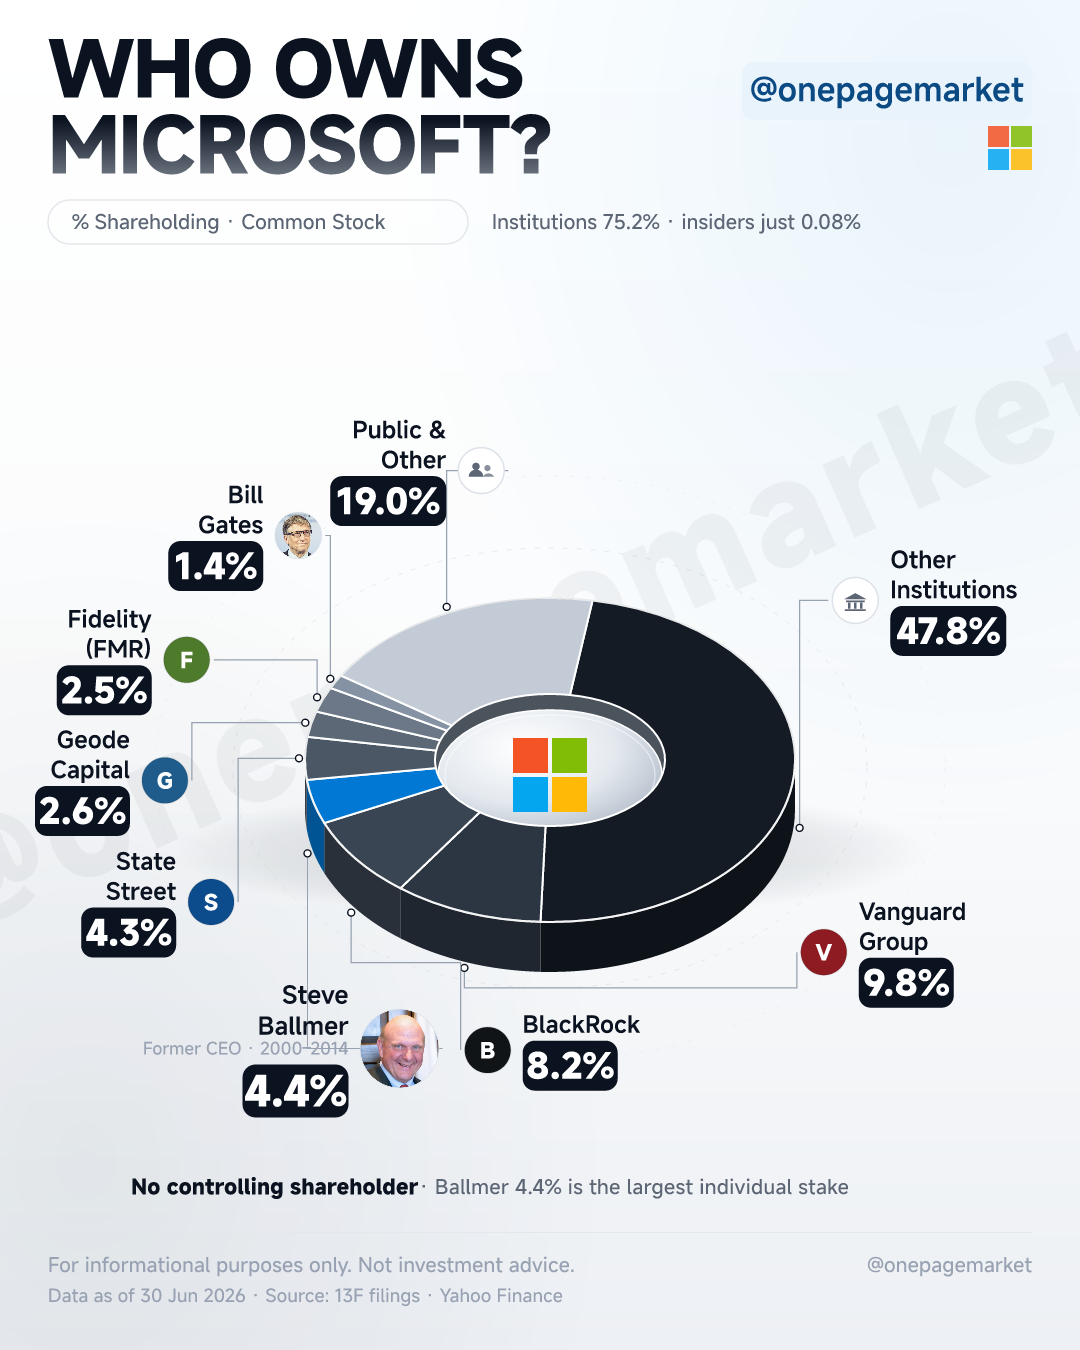
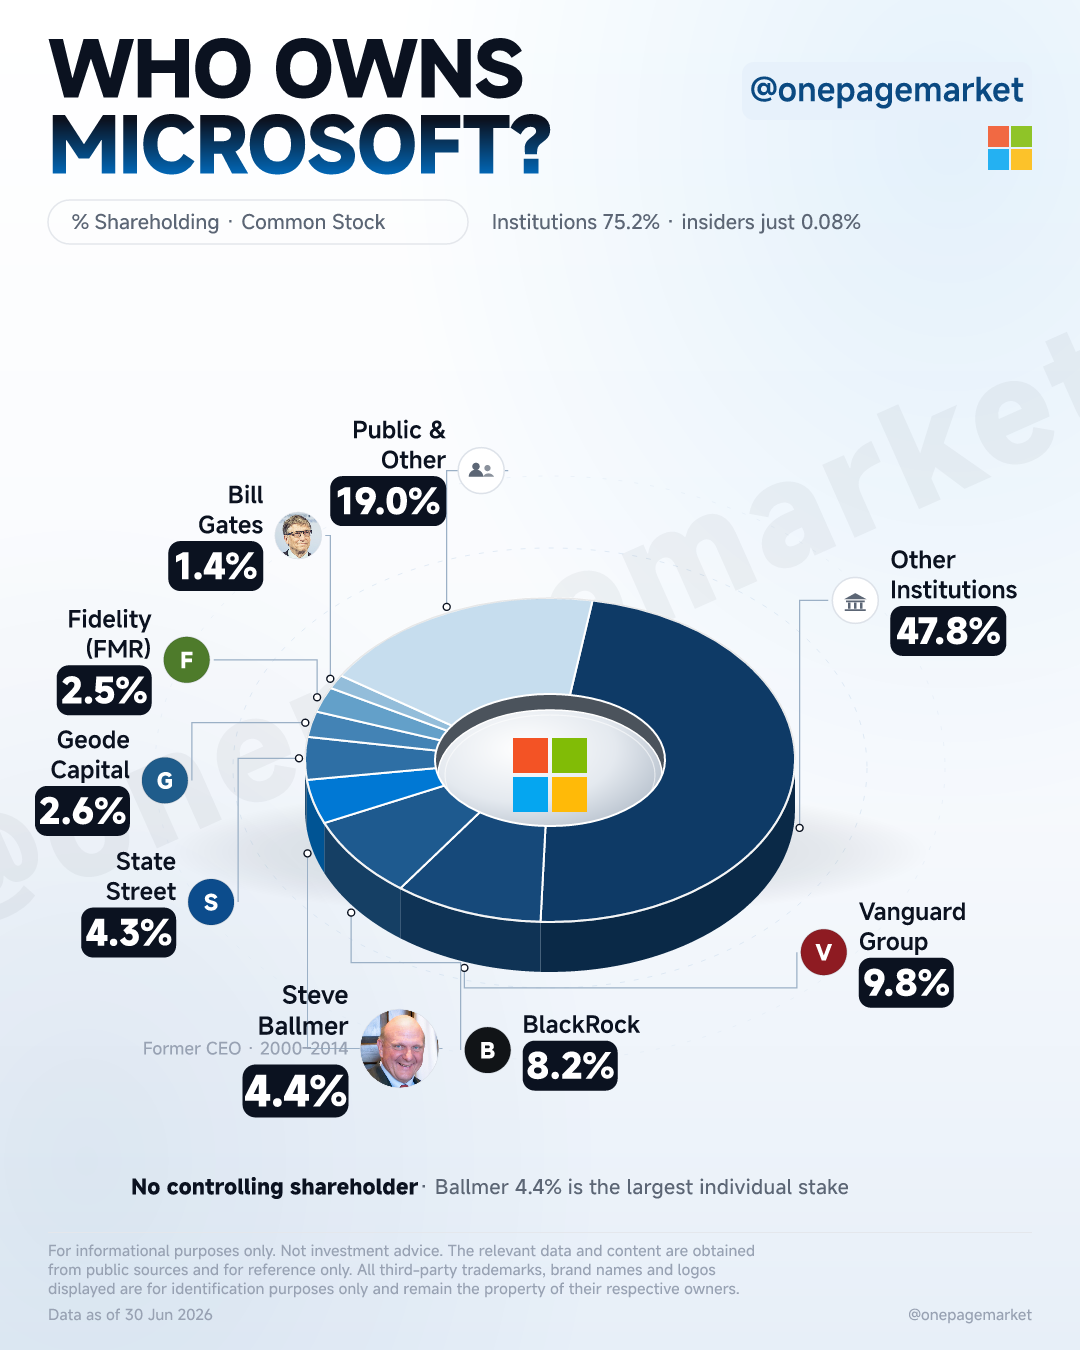
Who Owns Microsoft: 环改为微软蓝色阶
- data/ownership-msft.json 移除每段 color（颜色只留一个来源，MEMORY 坑 17）
- build_ownership_msft.js 新增 RAMP 蓝色阶（深海军蓝→浅雾蓝）+ HERO_BLUE #0078D4 钉给 Ballmer
- palette 同步转蓝（背景/光晕/轨道线/标题问号），中心圆盘保持银灰金属（坑 21：与蓝环异色系才读得出凸起）

diff --git a/docs/index.html b/docs/index.html
@@ -76,7 +76,7 @@
 <div class="sub">預計下一張圖：On Deck · 今天 20:30（北京時間）</div></div><button class="rf" id="rf" type="button" aria-label="重新整理"><svg viewBox="0 0 24 24" fill="none" stroke="currentColor" stroke-width="2" stroke-linecap="round" stroke-linejoin="round"><path d="M21 12a9 9 0 1 1-2.64-6.36"/><path d="M21 3v6h-6"/></svg></button></header>
 <div class="rule"></div>
 <main>
-<section class="sec"><div class="ghead"><b>Who Owns Microsoft?</b><span class="day">Fri, Oct 23 · 1 張</span></div><div class="tweet"><button class="copy" data-t="Who owns Microsoft? Institutions hold 75.2% — Vanguard 9.8%, BlackRock 8.2%, State Street 4.3%. Ballmer is the largest individual shareholder at 4.4%; Gates is down to 1.4% after his foundation exited in early 2026. 🧵">複製文案</button><p>Who owns Microsoft? Institutions hold 75.2% — Vanguard 9.8%, BlackRock 8.2%, State Street 4.3%. Ballmer is the largest individual shareholder at 4.4%; Gates is down to 1.4% after his foundation exited in early 2026. 🧵</p><span class="len">217 字</span></div><div class="shots"><div class="shot"><a class="link" href="img/who-owns-msft-20261023.png" target="_blank"><img src="img/who-owns-msft-20261023.png" loading="lazy" alt="who-owns-msft-20261023.png"></a><span class="ts">2026-10-23 13:47:51</span></div></div></section><section class="sec"><div class="ghead"><b>Who Owns Apple?</b><span class="day">Fri, Oct 23 · 1 張</span></div><div class="tweet"><button class="copy" data-t="Who owns Apple? Institutions hold 65.7% — Vanguard 9.4%, BlackRock 8.0%, State Street 4.2%. Insiders hold just 0.06% — no controlling shareholder. Buffett's Berkshire: 1.6%. 🧵">複製文案</button><p>Who owns Apple? Institutions hold 65.7% — Vanguard 9.4%, BlackRock 8.0%, State Street 4.2%. Insiders hold just 0.06% — no controlling shareholder. Buffett's Berkshire: 1.6%. 🧵</p><span class="len">175 字</span></div><div class="shots"><div class="shot"><a class="link" href="img/who-owns-aapl-20261023.png" target="_blank"><img src="img/who-owns-aapl-20261023.png" loading="lazy" alt="who-owns-aapl-20261023.png"></a><span class="ts">2026-10-23 12:47:16</span></div></div></section><section class="sec"><div class="ghead"><b>The Close</b><span class="day">Thu, Oct 22 · 1 張</span></div><div class="tweet"><button class="copy" data-t="The Close: S&amp;P 500 -1.21% · Nasdaq -2.60% · Russell 2000 +0.11%. Most traded: SPCX -9.14%, MU -6.26%, NVDA -4.40%. Top 20 by turnover inside. 🧵">複製文案</button><p>The Close: S&amp;P 500 -1.21% · Nasdaq -2.60% · Russell 2000 +0.11%. Most traded: SPCX -9.14%, MU -6.26%, NVDA -4.40%. Top 20 by turnover inside. 🧵</p><span class="len">143 字</span></div><div class="shots"><div class="shot"><a class="link" href="img/the-close-20261022.png" target="_blank"><img src="img/the-close-20261022.png" loading="lazy" alt="the-close-20261022.png"></a><span class="ts">2026-10-23 14:25:56</span></div></div></section><section class="sec"><div class="ghead"><b>On Deck</b><span class="day">Thu, Oct 22 · 1 張</span></div><div class="tweet"><button class="copy" data-t="On Deck for today: Crude Oil Inventories; EIA Weekly Distillates Stocks; Gasoline Inventories. 137 companies report — PG, UNP, LMT before the open, WDC, NEM, BE after the close. 🧵">複製文案</button><p>On Deck for today: Crude Oil Inventories; EIA Weekly Distillates Stocks; Gasoline Inventories. 137 companies report — PG, UNP, LMT before the open, WDC, NEM, BE after the close. 🧵</p><span class="len">179 字</span></div><div class="shots"><div class="shot"><a class="link" href="img/on-deck-20261022.png" target="_blank"><img src="img/on-deck-20261022.png" loading="lazy" alt="on-deck-20261022.png"></a><span class="ts">2026-10-22 21:19:31</span></div></div></section><section class="sec"><div class="ghead"><b>Who Owns Meta?</b><span class="day">Thu, Oct 22 · 1 張</span></div><div class="tweet"><button class="copy" data-t="Who owns Meta? Zuckerberg 13.4% — but ~61% of the vote via Class B. Institutions hold 67.8%: Vanguard 7.6%, BlackRock 6.8%, Capital Group 4.0%. These 7 managers hold 29.1% between them. 🧵">複製文案</button><p>Who owns Meta? Zuckerberg 13.4% — but ~61% of the vote via Class B. Institutions hold 67.8%: Vanguard 7.6%, BlackRock 6.8%, Capital Group 4.0%. These 7 managers hold 29.1% between them. 🧵</p><span class="len">187 字</span></div><div class="shots"><div class="shot"><a class="link" href="img/who-owns-meta-20261022.png" target="_blank"><img src="img/who-owns-meta-20261022.png" loading="lazy" alt="who-owns-meta-20261022.png"></a><span class="ts">2026-10-22 16:41:40</span></div></div></section><section class="sec"><div class="ghead"><b>Who Owns SpaceX?</b><span class="day">Thu, Oct 22 · 1 張</span></div><div class="tweet"><button class="copy" data-t="Who owns SpaceX? Musk 44.7% — and ~82% of the votes via Class B. Institutions hold 30.0% — top: Alphabet 4.1%, Valor Equity 3.4%, Founders Fund 3.2%, Fidelity 2.2%. Everyone else: 36.0%. 🧵">複製文案</button><p>Who owns SpaceX? Musk 44.7% — and ~82% of the votes via Class B. Institutions hold 30.0% — top: Alphabet 4.1%, Valor Equity 3.4%, Founders Fund 3.2%, Fidelity 2.2%. Everyone else: 36.0%. 🧵</p><span class="len">188 字</span></div><div class="shots"><div class="shot"><a class="link" href="img/who-owns-spcx-20261022.png" target="_blank"><img src="img/who-owns-spcx-20261022.png" loading="lazy" alt="who-owns-spcx-20261022.png"></a><span class="ts">2026-10-22 16:41:39</span></div></div></section><section class="sec"><div class="ghead"><b>The Close</b><span class="day">Wed, Oct 21 · 1 張</span></div><div class="tweet"><button class="copy" data-t="The Close: S&amp;P 500 +0.58% · Nasdaq +1.05% · Russell 2000 +0.27%. Most traded: MU, SPCX, NVDA. Breadth 80% advancers. 🧵">複製文案</button><p>The Close: S&amp;P 500 +0.58% · Nasdaq +1.05% · Russell 2000 +0.27%. Most traded: MU, SPCX, NVDA. Breadth 80% advancers. 🧵</p><span class="len">118 字</span></div><div class="shots"><div class="shot"><a class="link" href="img/the-close-20261021.png" target="_blank"><img src="img/the-close-20261021.png" loading="lazy" alt="the-close-20261021.png"></a><span class="ts">2026-10-22 04:38:14</span></div></div></section><section class="sec"><div class="ghead"><b>Who Owns NVDA?</b><span class="day">Wed, Oct 21 · 1 張</span></div><div class="tweet"><button class="copy" data-t="Who owns NVIDIA? Institutions hold 71.4% — top: Vanguard 9.6%, BlackRock 8.1%, Fidelity 4.3%, State Street 4.2%. Insiders (incl. Jensen Huang) 4.0%. Everyone else: 59.4%. 🧵">複製文案</button><p>Who owns NVIDIA? Institutions hold 71.4% — top: Vanguard 9.6%, BlackRock 8.1%, Fidelity 4.3%, State Street 4.2%. Insiders (incl. Jensen Huang) 4.0%. Everyone else: 59.4%. 🧵</p><span class="len">172 字</span></div><div class="shots"><div class="shot"><a class="link" href="img/who-owns-nvda-20261021.png" target="_blank"><img src="img/who-owns-nvda-20261021.png" loading="lazy" alt="who-owns-nvda-20261021.png"></a><span class="ts">2026-10-21 20:25:28</span></div></div></section><section class="sec"><div class="ghead"><b>Week Ahead</b><span class="day">Wed, Oct 21 · 1 張</span></div><div class="tweet"><button class="copy" data-t="This week in US markets: Mon IMF Meetings, Tue NAHB Housing Market Index, Wed Atlanta Fed GDPNow. Key earnings: GE, NFLX, PM, META, PG, WDC. Full calendar in the card. 🧵">複製文案</button><p>This week in US markets: Mon IMF Meetings, Tue NAHB Housing Market Index, Wed Atlanta Fed GDPNow. Key earnings: GE, NFLX, PM, META, PG, WDC. Full calendar in the card. 🧵</p><span class="len">169 字</span></div><div class="shots"><div class="shot"><a class="link" href="img/week-ahead-20261021.png" target="_blank"><img src="img/week-ahead-20261021.png" loading="lazy" alt="week-ahead-20261021.png"></a><span class="ts">2026-10-21 13:55:01</span></div></div></section><section class="sec"><div class="ghead"><b>On Deck</b><span class="day">Wed, Oct 21 · 1 張</span></div><div class="tweet"><button class="copy" data-t="On Deck for today: Atlanta Fed GDPNow; Housing Starts; Building Permits. 91 companies report — PM, TMO, ABT before the open, META, TSLA, LRCX after the close. 🧵">複製文案</button><p>On Deck for today: Atlanta Fed GDPNow; Housing Starts; Building Permits. 91 companies report — PM, TMO, ABT before the open, META, TSLA, LRCX after the close. 🧵</p><span class="len">160 字</span></div><div class="shots"><div class="shot"><a class="link" href="img/on-deck-20261021.png" target="_blank"><img src="img/on-deck-20261021.png" loading="lazy" alt="on-deck-20261021.png"></a><span class="ts">2026-10-21 13:32:26</span></div></div></section>
+<section class="sec"><div class="ghead"><b>Who Owns Microsoft?</b><span class="day">Fri, Oct 23 · 1 張</span></div><div class="tweet"><button class="copy" data-t="Who owns Microsoft? Institutions hold 75.2% — Vanguard 9.8%, BlackRock 8.2%, State Street 4.3%. Ballmer is the largest individual shareholder at 4.4%; Gates is down to 1.4% after his foundation exited in early 2026. 🧵">複製文案</button><p>Who owns Microsoft? Institutions hold 75.2% — Vanguard 9.8%, BlackRock 8.2%, State Street 4.3%. Ballmer is the largest individual shareholder at 4.4%; Gates is down to 1.4% after his foundation exited in early 2026. 🧵</p><span class="len">217 字</span></div><div class="shots"><div class="shot"><a class="link" href="img/who-owns-msft-20261023.png" target="_blank"><img src="img/who-owns-msft-20261023.png" loading="lazy" alt="who-owns-msft-20261023.png"></a><span class="ts">2026-10-23 13:48:58</span></div></div></section><section class="sec"><div class="ghead"><b>Who Owns Apple?</b><span class="day">Fri, Oct 23 · 1 張</span></div><div class="tweet"><button class="copy" data-t="Who owns Apple? Institutions hold 65.7% — Vanguard 9.4%, BlackRock 8.0%, State Street 4.2%. Insiders hold just 0.06% — no controlling shareholder. Buffett's Berkshire: 1.6%. 🧵">複製文案</button><p>Who owns Apple? Institutions hold 65.7% — Vanguard 9.4%, BlackRock 8.0%, State Street 4.2%. Insiders hold just 0.06% — no controlling shareholder. Buffett's Berkshire: 1.6%. 🧵</p><span class="len">175 字</span></div><div class="shots"><div class="shot"><a class="link" href="img/who-owns-aapl-20261023.png" target="_blank"><img src="img/who-owns-aapl-20261023.png" loading="lazy" alt="who-owns-aapl-20261023.png"></a><span class="ts">2026-10-23 12:47:16</span></div></div></section><section class="sec"><div class="ghead"><b>The Close</b><span class="day">Thu, Oct 22 · 1 張</span></div><div class="tweet"><button class="copy" data-t="The Close: S&amp;P 500 -1.21% · Nasdaq -2.60% · Russell 2000 +0.11%. Most traded: SPCX -9.14%, MU -6.26%, NVDA -4.40%. Top 20 by turnover inside. 🧵">複製文案</button><p>The Close: S&amp;P 500 -1.21% · Nasdaq -2.60% · Russell 2000 +0.11%. Most traded: SPCX -9.14%, MU -6.26%, NVDA -4.40%. Top 20 by turnover inside. 🧵</p><span class="len">143 字</span></div><div class="shots"><div class="shot"><a class="link" href="img/the-close-20261022.png" target="_blank"><img src="img/the-close-20261022.png" loading="lazy" alt="the-close-20261022.png"></a><span class="ts">2026-10-23 14:25:56</span></div></div></section><section class="sec"><div class="ghead"><b>On Deck</b><span class="day">Thu, Oct 22 · 1 張</span></div><div class="tweet"><button class="copy" data-t="On Deck for today: Crude Oil Inventories; EIA Weekly Distillates Stocks; Gasoline Inventories. 137 companies report — PG, UNP, LMT before the open, WDC, NEM, BE after the close. 🧵">複製文案</button><p>On Deck for today: Crude Oil Inventories; EIA Weekly Distillates Stocks; Gasoline Inventories. 137 companies report — PG, UNP, LMT before the open, WDC, NEM, BE after the close. 🧵</p><span class="len">179 字</span></div><div class="shots"><div class="shot"><a class="link" href="img/on-deck-20261022.png" target="_blank"><img src="img/on-deck-20261022.png" loading="lazy" alt="on-deck-20261022.png"></a><span class="ts">2026-10-22 21:19:31</span></div></div></section><section class="sec"><div class="ghead"><b>Who Owns Meta?</b><span class="day">Thu, Oct 22 · 1 張</span></div><div class="tweet"><button class="copy" data-t="Who owns Meta? Zuckerberg 13.4% — but ~61% of the vote via Class B. Institutions hold 67.8%: Vanguard 7.6%, BlackRock 6.8%, Capital Group 4.0%. These 7 managers hold 29.1% between them. 🧵">複製文案</button><p>Who owns Meta? Zuckerberg 13.4% — but ~61% of the vote via Class B. Institutions hold 67.8%: Vanguard 7.6%, BlackRock 6.8%, Capital Group 4.0%. These 7 managers hold 29.1% between them. 🧵</p><span class="len">187 字</span></div><div class="shots"><div class="shot"><a class="link" href="img/who-owns-meta-20261022.png" target="_blank"><img src="img/who-owns-meta-20261022.png" loading="lazy" alt="who-owns-meta-20261022.png"></a><span class="ts">2026-10-22 16:41:40</span></div></div></section><section class="sec"><div class="ghead"><b>Who Owns SpaceX?</b><span class="day">Thu, Oct 22 · 1 張</span></div><div class="tweet"><button class="copy" data-t="Who owns SpaceX? Musk 44.7% — and ~82% of the votes via Class B. Institutions hold 30.0% — top: Alphabet 4.1%, Valor Equity 3.4%, Founders Fund 3.2%, Fidelity 2.2%. Everyone else: 36.0%. 🧵">複製文案</button><p>Who owns SpaceX? Musk 44.7% — and ~82% of the votes via Class B. Institutions hold 30.0% — top: Alphabet 4.1%, Valor Equity 3.4%, Founders Fund 3.2%, Fidelity 2.2%. Everyone else: 36.0%. 🧵</p><span class="len">188 字</span></div><div class="shots"><div class="shot"><a class="link" href="img/who-owns-spcx-20261022.png" target="_blank"><img src="img/who-owns-spcx-20261022.png" loading="lazy" alt="who-owns-spcx-20261022.png"></a><span class="ts">2026-10-22 16:41:39</span></div></div></section><section class="sec"><div class="ghead"><b>The Close</b><span class="day">Wed, Oct 21 · 1 張</span></div><div class="tweet"><button class="copy" data-t="The Close: S&amp;P 500 +0.58% · Nasdaq +1.05% · Russell 2000 +0.27%. Most traded: MU, SPCX, NVDA. Breadth 80% advancers. 🧵">複製文案</button><p>The Close: S&amp;P 500 +0.58% · Nasdaq +1.05% · Russell 2000 +0.27%. Most traded: MU, SPCX, NVDA. Breadth 80% advancers. 🧵</p><span class="len">118 字</span></div><div class="shots"><div class="shot"><a class="link" href="img/the-close-20261021.png" target="_blank"><img src="img/the-close-20261021.png" loading="lazy" alt="the-close-20261021.png"></a><span class="ts">2026-10-22 04:38:14</span></div></div></section><section class="sec"><div class="ghead"><b>Who Owns NVDA?</b><span class="day">Wed, Oct 21 · 1 張</span></div><div class="tweet"><button class="copy" data-t="Who owns NVIDIA? Institutions hold 71.4% — top: Vanguard 9.6%, BlackRock 8.1%, Fidelity 4.3%, State Street 4.2%. Insiders (incl. Jensen Huang) 4.0%. Everyone else: 59.4%. 🧵">複製文案</button><p>Who owns NVIDIA? Institutions hold 71.4% — top: Vanguard 9.6%, BlackRock 8.1%, Fidelity 4.3%, State Street 4.2%. Insiders (incl. Jensen Huang) 4.0%. Everyone else: 59.4%. 🧵</p><span class="len">172 字</span></div><div class="shots"><div class="shot"><a class="link" href="img/who-owns-nvda-20261021.png" target="_blank"><img src="img/who-owns-nvda-20261021.png" loading="lazy" alt="who-owns-nvda-20261021.png"></a><span class="ts">2026-10-21 20:25:28</span></div></div></section><section class="sec"><div class="ghead"><b>Week Ahead</b><span class="day">Wed, Oct 21 · 1 張</span></div><div class="tweet"><button class="copy" data-t="This week in US markets: Mon IMF Meetings, Tue NAHB Housing Market Index, Wed Atlanta Fed GDPNow. Key earnings: GE, NFLX, PM, META, PG, WDC. Full calendar in the card. 🧵">複製文案</button><p>This week in US markets: Mon IMF Meetings, Tue NAHB Housing Market Index, Wed Atlanta Fed GDPNow. Key earnings: GE, NFLX, PM, META, PG, WDC. Full calendar in the card. 🧵</p><span class="len">169 字</span></div><div class="shots"><div class="shot"><a class="link" href="img/week-ahead-20261021.png" target="_blank"><img src="img/week-ahead-20261021.png" loading="lazy" alt="week-ahead-20261021.png"></a><span class="ts">2026-10-21 13:55:01</span></div></div></section><section class="sec"><div class="ghead"><b>On Deck</b><span class="day">Wed, Oct 21 · 1 張</span></div><div class="tweet"><button class="copy" data-t="On Deck for today: Atlanta Fed GDPNow; Housing Starts; Building Permits. 91 companies report — PM, TMO, ABT before the open, META, TSLA, LRCX after the close. 🧵">複製文案</button><p>On Deck for today: Atlanta Fed GDPNow; Housing Starts; Building Permits. 91 companies report — PM, TMO, ABT before the open, META, TSLA, LRCX after the close. 🧵</p><span class="len">160 字</span></div><div class="shots"><div class="shot"><a class="link" href="img/on-deck-20261021.png" target="_blank"><img src="img/on-deck-20261021.png" loading="lazy" alt="on-deck-20261021.png"></a><span class="ts">2026-10-21 13:32:26</span></div></div></section>
 
 </main>
 <script>

diff --git a/scripts/build_ownership_msft.js b/scripts/build_ownership_msft.js
@@ -1,9 +1,13 @@
 /**
- * Who Owns Microsoft? — 3D 立體空心環股權卡（淺底 · 石墨色階 + 微軟藍強調）
+ * Who Owns Microsoft? — 3D 立體空心環股權卡（淺底 · 微軟藍色階）
  *   數據：13F Q2-2026（Yahoo Finance / StockVane / Stockrow 交叉核對）
  *         institutions 75.2% · 現任董監高 0.08% · Ballmer 4.4%（最大個人）· Gates 1.4%
  *   引擎：scripts/lib/ownership_card.js
  *   用法：node scripts/build_ownership_msft.js
+ *
+ * 2026-10-23 阿澤：環改為「藍色為主」。
+ *   顏色只留一個來源 = 本檔的 RAMP（JSON 不寫 color，見 MEMORY 坑 17）。
+ *   順序照 JSON 分段次序走（不含 hero），hero 另外釘 HERO_BLUE 做亮點。
  */
 const fs = require('fs');
 const path = require('path');
@@ -11,6 +15,16 @@ const build = require('./lib/ownership_card');
 
 const BASE = path.join(__dirname, '..');
 const D = JSON.parse(fs.readFileSync(path.join(BASE, 'data', 'ownership-msft.json'), 'utf8'));
+
+/* 微軟藍階：深海军藍 → 淺霧藍，steps 由大到小（不含 hero 那格） */
+const RAMP = ['#0E3A66', '#16497A', '#1E5A8F', '#2E6FA5', '#4383B5', '#63A0C9', '#93BDDA', '#C6DDEE'];
+const HERO_BLUE = '#0078D4';          // 微軟品牌藍，只給 Ballmer 那格當亮點
+{
+  let ri = 0;
+  D.segments.forEach((s) => {
+    s.color = s.hero ? HERO_BLUE : RAMP[Math.min(ri++, RAMP.length - 1)];
+  });
+}
 
 /* Windows 四色方塊（底部矢量）：品牌主體，扁平 + 地面投影 + 玻璃反光 */
 const hex2rgb = (h) => [1, 3, 5].map((i) => parseInt(h.slice(i, i + 2), 16));
@@ -97,12 +111,12 @@ const OPTS = {
   heroSize: { badge: 78, nfs: 24, pfs: 40 },
   noteSize: 20,
   palette: {
-    bgTop: '#FFFFFF', bgMid: '#FAFBFC', bgBot: '#EDF0F4',
-    glowA: ['#0078D4', 0.08], glowB: ['#5C6B7A', 0.10],
-    orbitStroke1: '#D3D9E1', orbitStroke2: '#E0E5EB',
-    title2: ['#0B1220', '#7A828E'],
-    handlePill: '#E9F3FC', handleInk: '#0B4A82',
-    lead: '#96A2B0', anchorFill: '#FFFFFF',
+    bgTop: '#FFFFFF', bgMid: '#F8FAFD', bgBot: '#E7EFF8',
+    glowA: ['#0078D4', 0.10], glowB: ['#2F6699', 0.09],
+    orbitStroke1: '#C8DAEC', orbitStroke2: '#D9E5F2',
+    title2: ['#0B1220', '#0078D4'],
+    handlePill: '#E7F1FB', handleInk: '#0B4A82',
+    lead: '#9BB0C6', anchorFill: '#FFFFFF',
   },
   wordmark: { file: 'msft-mark.png', w: 44, h: 44, y: 126 },
   nameLines: {
